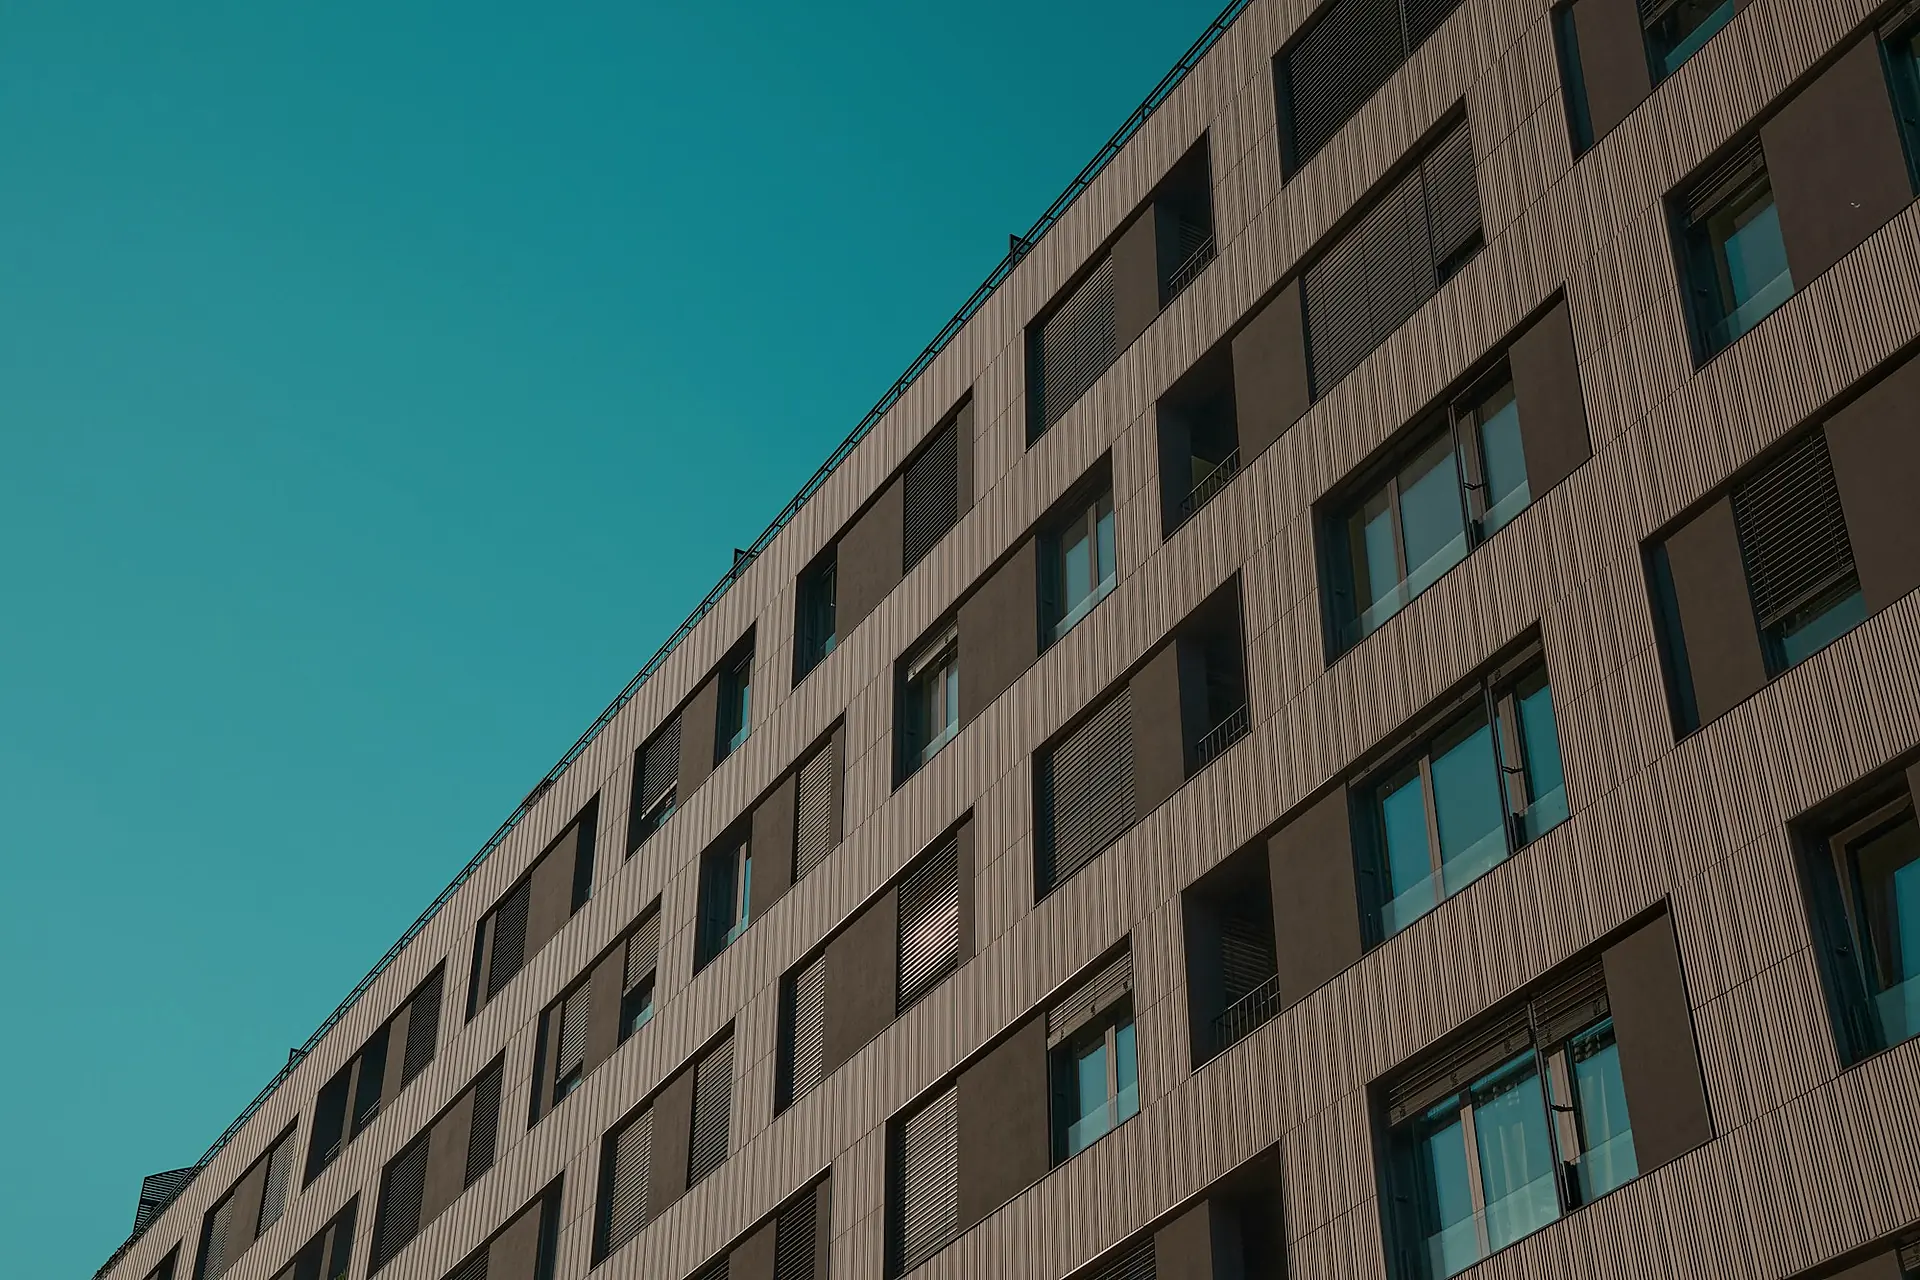
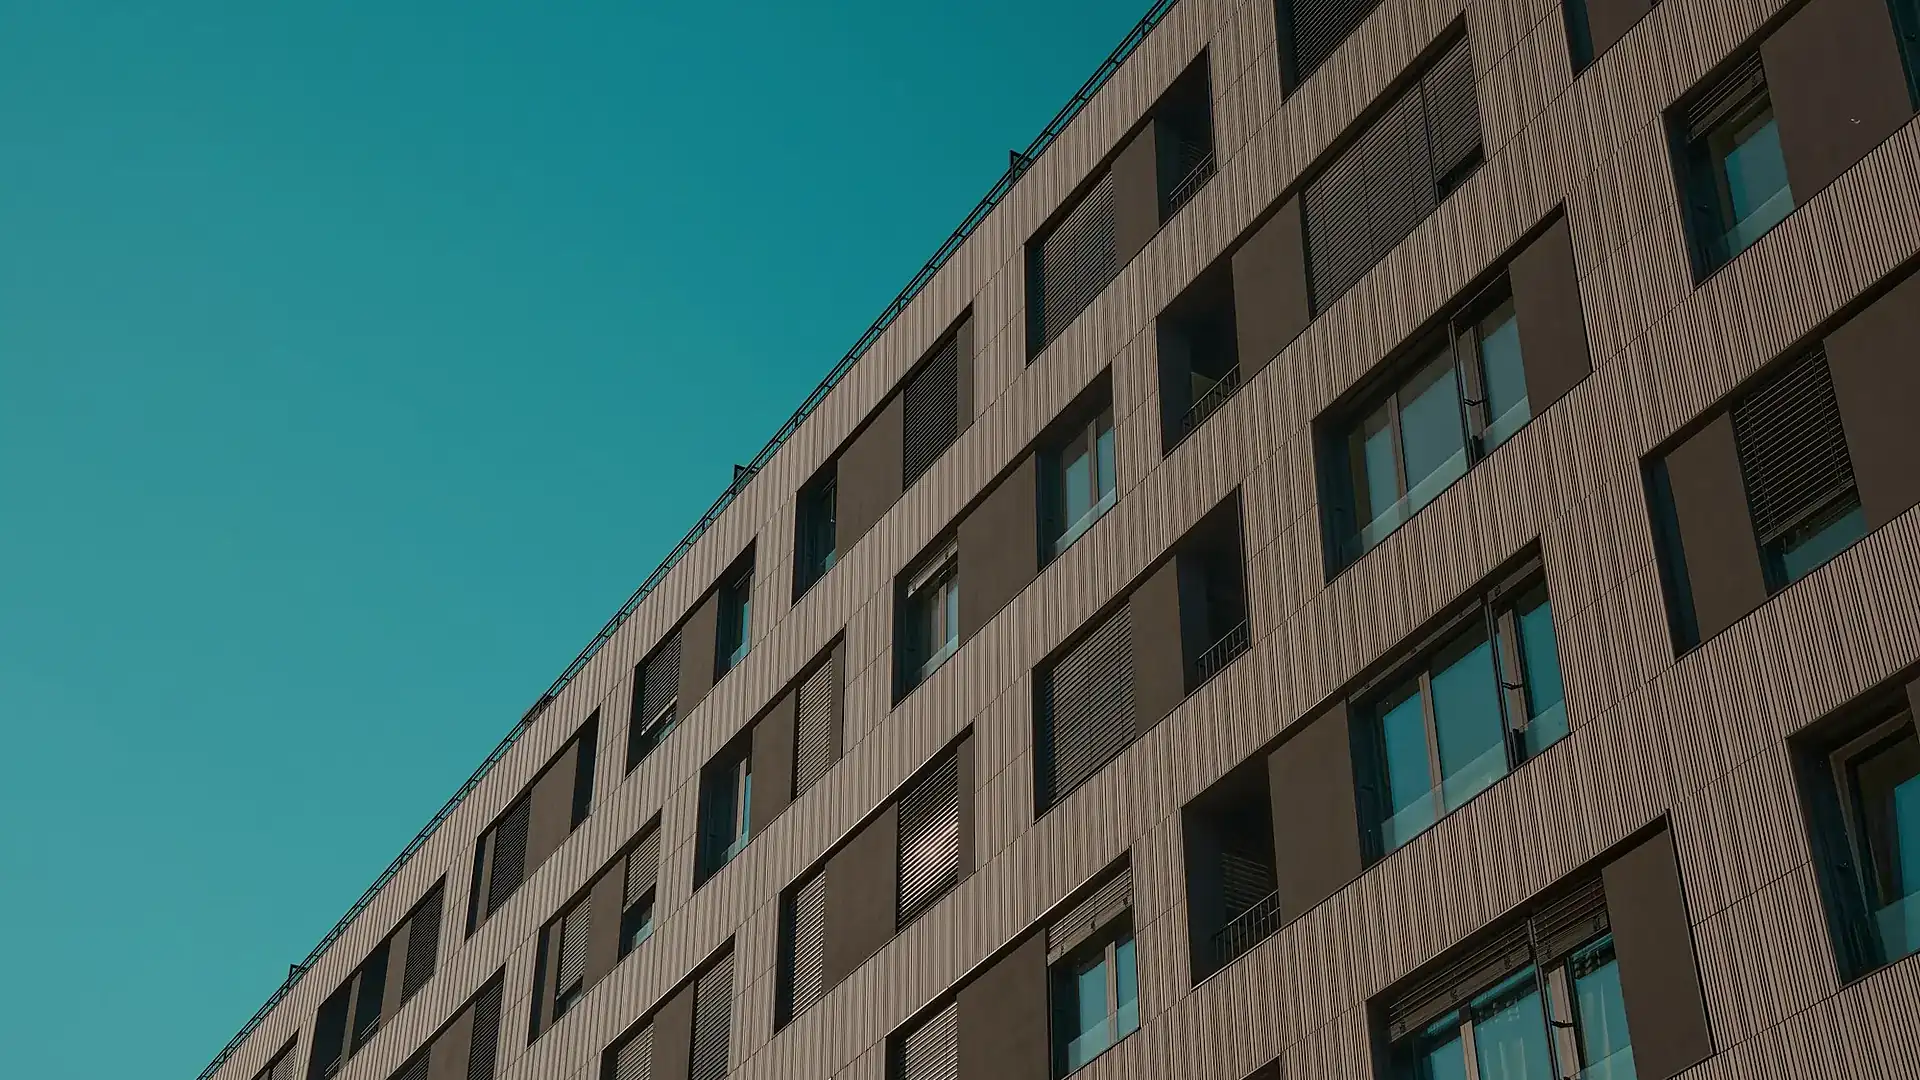
Unike motiver paa alle sider og band
Aatte nye arkitekturbilder fra Unsplash, beskaaret til liggende format og behandlet likt de eksisterende. Ingen motiver gjentas. Personvernsiden faar ren moerk topp uten foto.

diff --git a/index.html b/index.html
@@ -127,7 +127,7 @@
 
   </div>
 
-  <div class="band" style="--foto: url('img/om-oss-bg.webp')">
+  <div class="band" style="--foto: url('img/band-hvem.webp')">
     <div class="band-tekst">
       <h2>Hvem vi jobber for</h2>
       <p>Sameier, borettslag og mindre næringsbygg i Kristiansand og Agder.</p>
@@ -149,7 +149,7 @@
 
   </div>
 
-  <div class="band" style="--foto: url('img/kontakt-bg.webp')">
+  <div class="band" style="--foto: url('img/band-slik.webp')">
     <div class="band-tekst">
       <h2>Slik jobber vi</h2>
       <p>Én fast kontaktperson, tydelig rapportering og avtaler uten overraskelser.</p>

diff --git a/css/style.css b/css/style.css
@@ -579,6 +579,10 @@ body{ background: #171412; }
 }
 .hero--stor{ min-height: 84vh; }
 .hero--liten{ min-height: 42vh; }
+/* Uten foto – brukes på juridiske sider der bilde ikke hører hjemme */
+.hero--ren{ min-height: 0; background-image: none; background: #1d1917; }
+.hero--ren::after{ display: none; }
+.hero--ren .hero-tekst{ padding-top: 10px; padding-bottom: 40px; }
 .hero::after{
   content: "";
   position: absolute; inset: 0;

diff --git a/bytte-forvalter.html b/bytte-forvalter.html
@@ -32,7 +32,7 @@
 
 <a class="skip-link" href="#innhold">Hopp til innhold</a>
 
-<header class="hero hero--liten" style="--foto: url('img/tjenester-bg.webp')">
+<header class="hero hero--liten" style="--foto: url('img/hero-bytte.webp')">
   <div class="site-header">
   <div class="wrap header-top">
     <a class="brand-logo" href="index.html" aria-label="Forvaltningsxperten – til forsiden">

diff --git a/hms-sameie-borettslag.html b/hms-sameie-borettslag.html
@@ -32,7 +32,7 @@
 
 <a class="skip-link" href="#innhold">Hopp til innhold</a>
 
-<header class="hero hero--liten" style="--foto: url('img/kontakt-bg.webp')">
+<header class="hero hero--liten" style="--foto: url('img/hero-hms.webp')">
   <div class="site-header">
   <div class="wrap header-top">
     <a class="brand-logo" href="index.html" aria-label="Forvaltningsxperten – til forsiden">

diff --git a/pris-eiendomsforvaltning.html b/pris-eiendomsforvaltning.html
@@ -32,7 +32,7 @@
 
 <a class="skip-link" href="#innhold">Hopp til innhold</a>
 
-<header class="hero hero--liten" style="--foto: url('img/om-oss-bg.webp')">
+<header class="hero hero--liten" style="--foto: url('img/hero-pris.webp')">
   <div class="site-header">
   <div class="wrap header-top">
     <a class="brand-logo" href="index.html" aria-label="Forvaltningsxperten – til forsiden">

diff --git a/tjenester.html b/tjenester.html
@@ -142,7 +142,7 @@
 
   </div>
 
-  <div class="band" style="--foto: url('img/bakgrunn.webp')">
+  <div class="band" style="--foto: url('img/band-regnskap.webp')">
     <div class="band-tekst">
       <h2>Regnskap og økonomisk forvaltning</h2>
       <p>Vi fører regnskapet selv, og Regnskap Kristiansand AS står som autorisert regnskapsfører.</p>

diff --git a/personvern.html b/personvern.html
@@ -17,7 +17,7 @@
 
 <a class="skip-link" href="#innhold">Hopp til innhold</a>
 
-<header class="hero hero--liten" style="--foto: url('img/bakgrunn.webp')">
+<header class="hero hero--ren">
   <div class="site-header">
   <div class="wrap header-top">
     <a class="brand-logo" href="index.html" aria-label="Forvaltningsxperten – til forsiden">

diff --git a/om-oss.html b/om-oss.html
@@ -77,7 +77,7 @@
 
   </div>
 
-  <div class="band" style="--foto: url('img/kontakt-bg.webp')">
+  <div class="band" style="--foto: url('img/band-lokalt.webp')">
     <div class="band-tekst">
       <h2>Lokalt på Sørlandet</h2>
       <p>Kort vei til eiendommen betyr oppfølging i praksis, ikke bare på papiret.</p>
